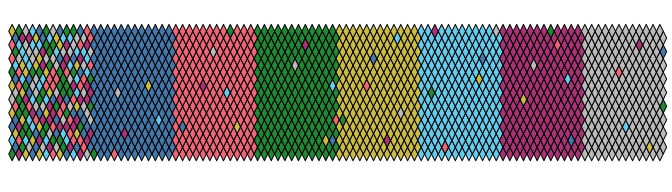
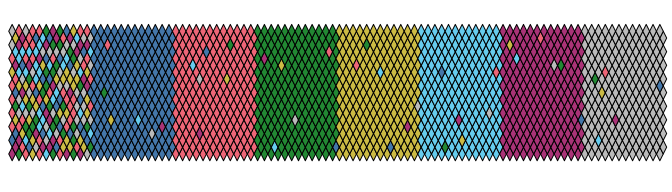
Update README (add a screeshot for crayon)

diff --git a/README.md b/README.md
@@ -1,10 +1,6 @@
 
 <!-- README.md is generated from README.Rmd. Please edit that file -->
 
-<STYLE type='text/css' scoped>
-PRE.fansi SPAN {padding-top: .25em; padding-bottom: .25em};
-</STYLE>
-
 # khroma <img width=120px src="man/figures/logo.png" align="right" />
 
 [![Appveyor build
@@ -40,18 +36,18 @@ for all people, including colour-blind readers. This package also
 provides tools to simulate colour-blindness and to test how well the
 colours of any palette are identifiable. To simulate colour-blindness in
 production-ready R figures you may also be interested in the
-[`colorblindr`](https://github.com/clauswilke/colorblindr) package.
+[**colorblindr**](https://github.com/clauswilke/colorblindr) package.
 
 For specific uses, several scientific thematic schemes (geologic
 timescale, land cover, FAO soils, etc.) are implemented, but these
 colour schemes may not be colour-blind safe.
 
-All these colour schemes are implemented for use with R `graphics` or
-[`ggplot2`](https://github.com/tidyverse/ggplot2).
+All these colour schemes are implemented for use with base R or
+[**ggplot2**](https://github.com/tidyverse/ggplot2).
 
 ## Installation
 
-You can install the released version of `khroma` from
+You can install the released version of **khroma** from
 [CRAN](https://CRAN.R-project.org):
 
 ``` r
@@ -82,16 +78,10 @@ integer argument returns a vector of colours.
 bright <- colour("bright")
 ```
 
-If [`crayon`](https://github.com/r-lib/crayon) is installed, colours
-will be nicely printed in the
-console.
+If [**crayon**](https://github.com/r-lib/crayon) is installed on your
+machine, colours will be nicely printed in the console.
 
-``` r
-bright(7)
-```
-
-<PRE class="fansi fansi-output"><CODE>#&gt; <span style='background-color: #5F87AF;'>#4477AA</span><span> </span><span style='background-color: #FF8787;'>#EE6677</span><span> </span><span style='background-color: #00AF5F;'>#228833</span><span> </span><span style='background-color: #D7D75F;'>#CCBB44</span><span> </span><span style='background-color: #87D7FF;'>#66CCEE</span><span> </span><span style='background-color: #AF5F87;'>#AA3377</span><span> </span><span style='background-color: #B2B2B2;'>#BBBBBB</span><span>
-</span></CODE></PRE>
+![](./man/figures/README-crayon.png)<!-- -->
 
 You can disable this feature by setting the `crayon.enabled` option to
 `FALSE`.
@@ -123,6 +113,7 @@ ggplot(data = mpg, mapping = aes(x = displ, y = hwy, colour = class)) +
 
 ``` r
 # Test how well the colours are identifiable
+set.seed(12345)
 plot_map(bright(7))
 ```
 
@@ -175,8 +166,9 @@ with colours that are:
   - Matching well together.
 
 All the scales presented in Paul Tol’s technical note are implemented
-here, for use with `graphics` or `ggplot2`. Refer to the original
-document for details about the recommended uses.
+here, for use with base R or
+[**ggplot2**](https://github.com/tidyverse/ggplot2). Refer to the
+original document for details about the recommended uses.
 
 See the vignette for a more complete overview:
 
@@ -197,7 +189,7 @@ welcome](https://github.com/nfrerebeau/khroma/issues)).
 
 ## Contributing
 
-Please note that the `khroma` project is released with a [Contributor
+Please note that the **khroma** project is released with a [Contributor
 Code of
 Conduct](https://github.com/nfrerebeau/khroma/blob/master/.github/CODE_OF_CONDUCT.md).
 By contributing to this project, you agree to abide by its terms.
